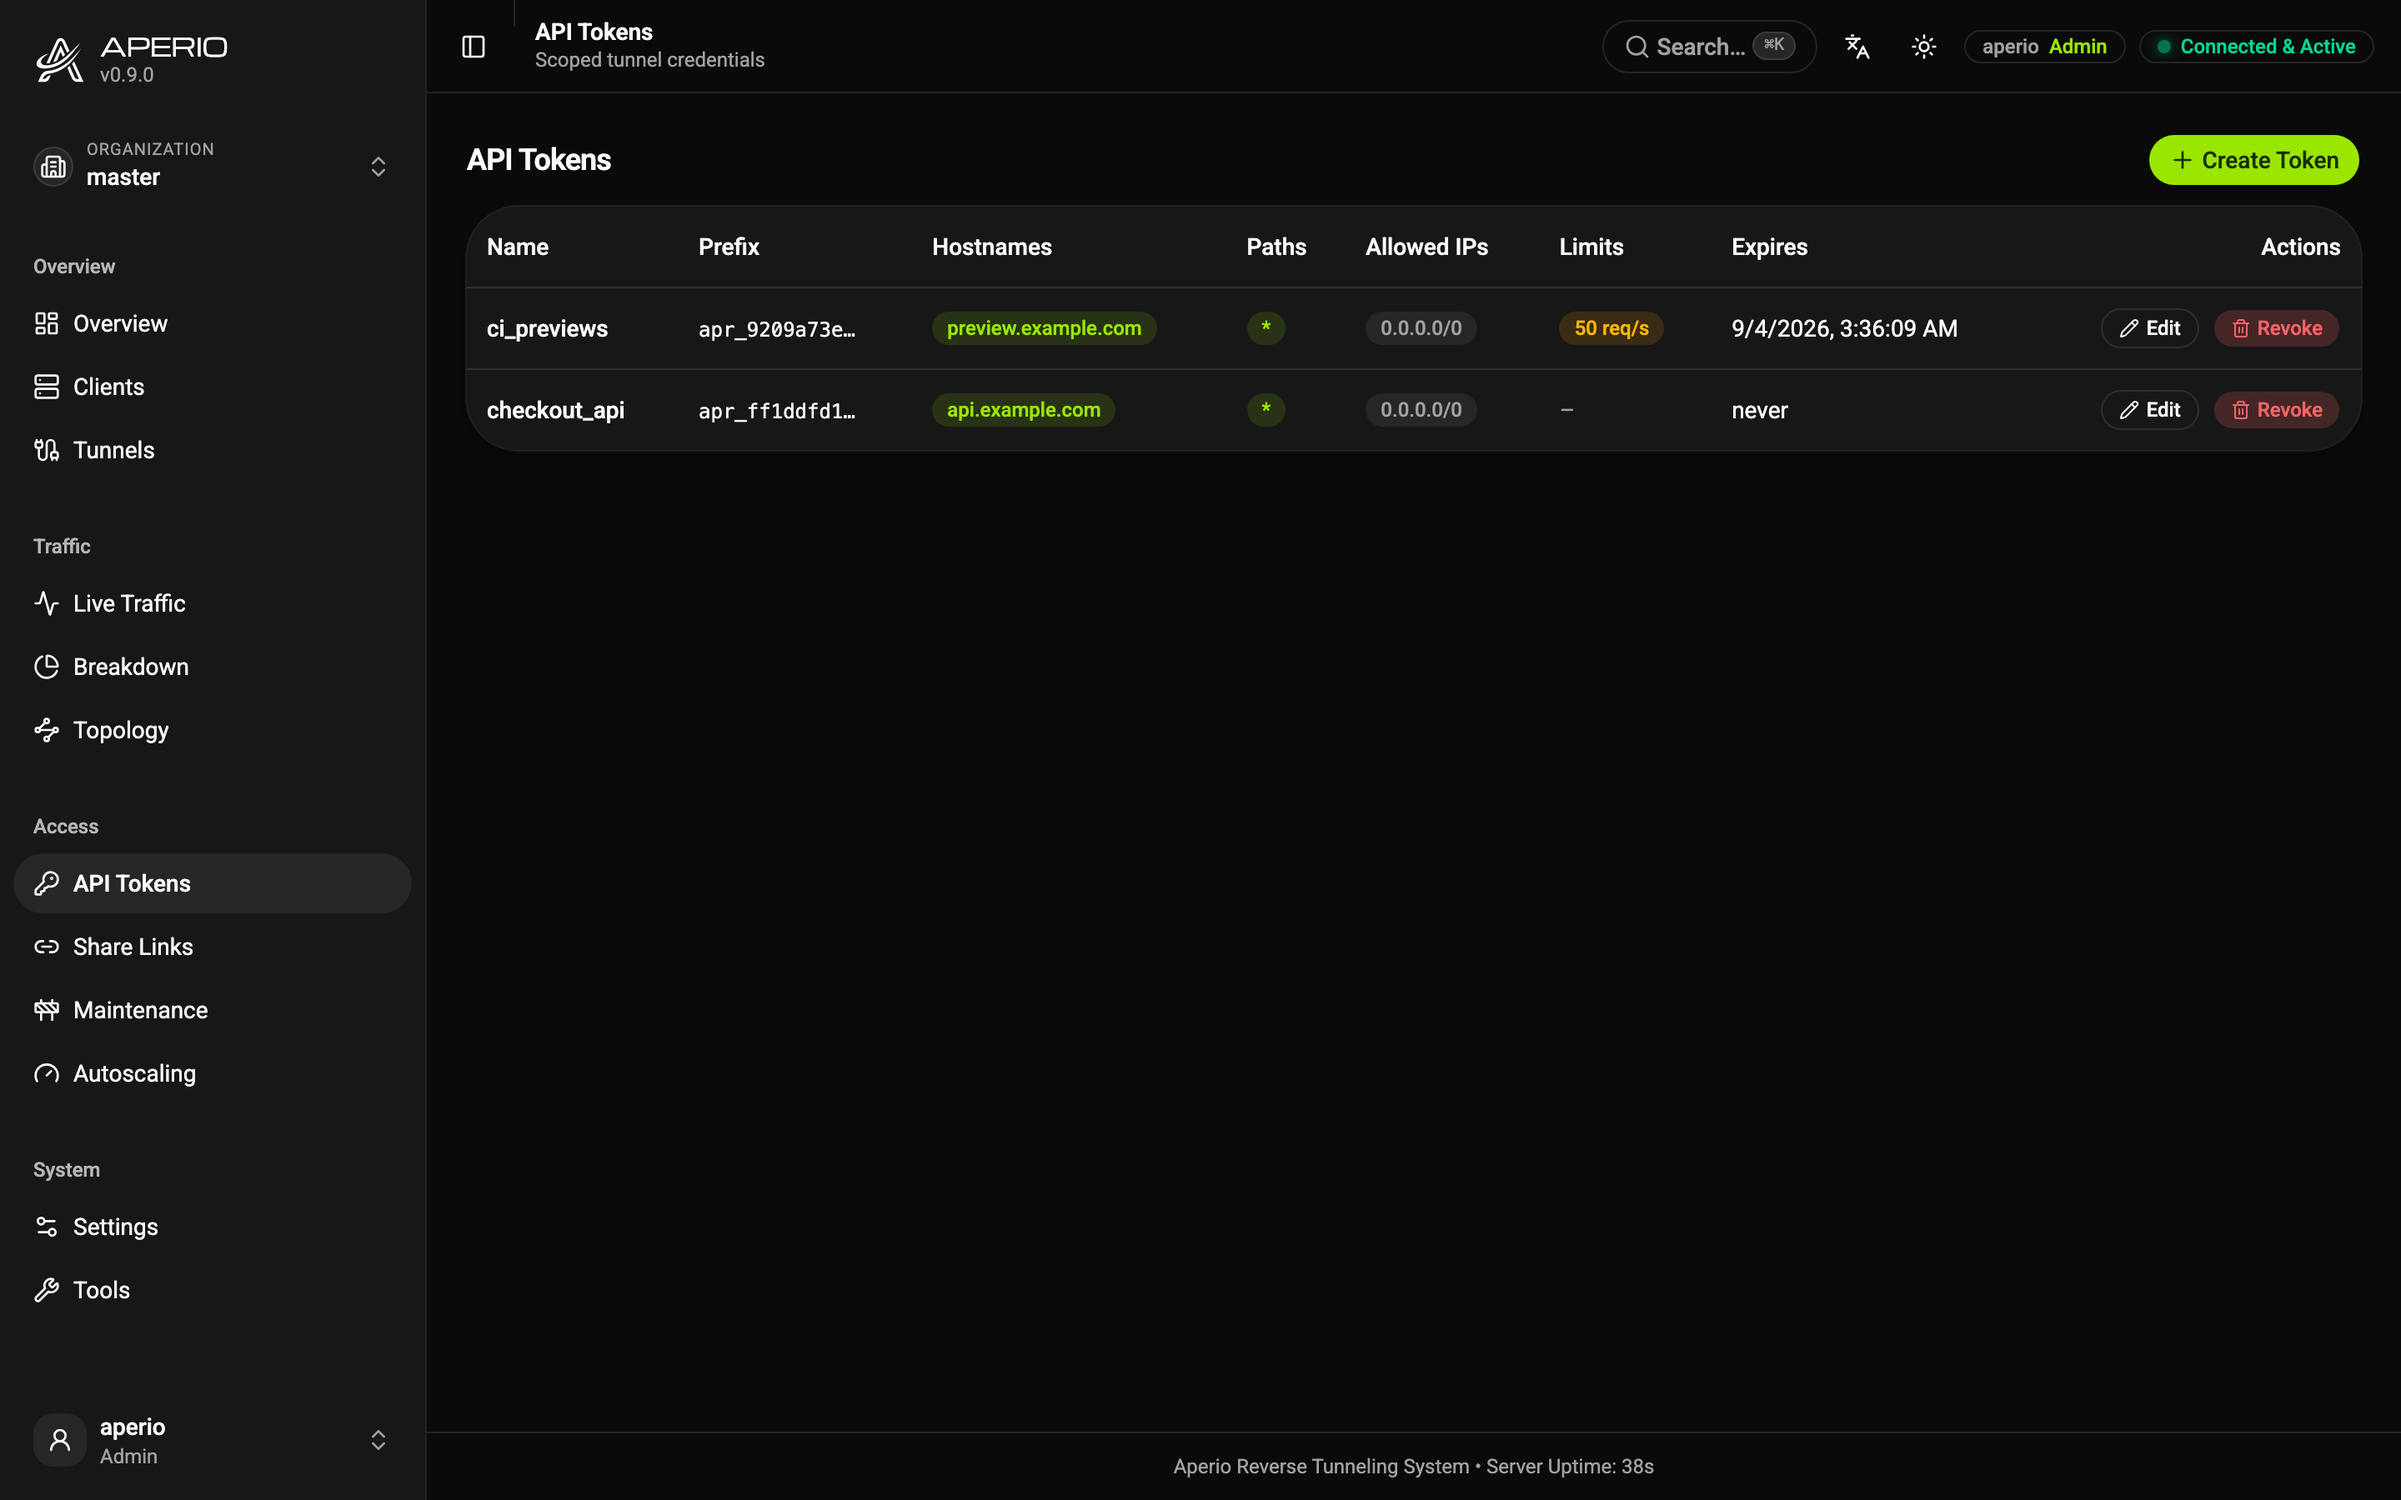
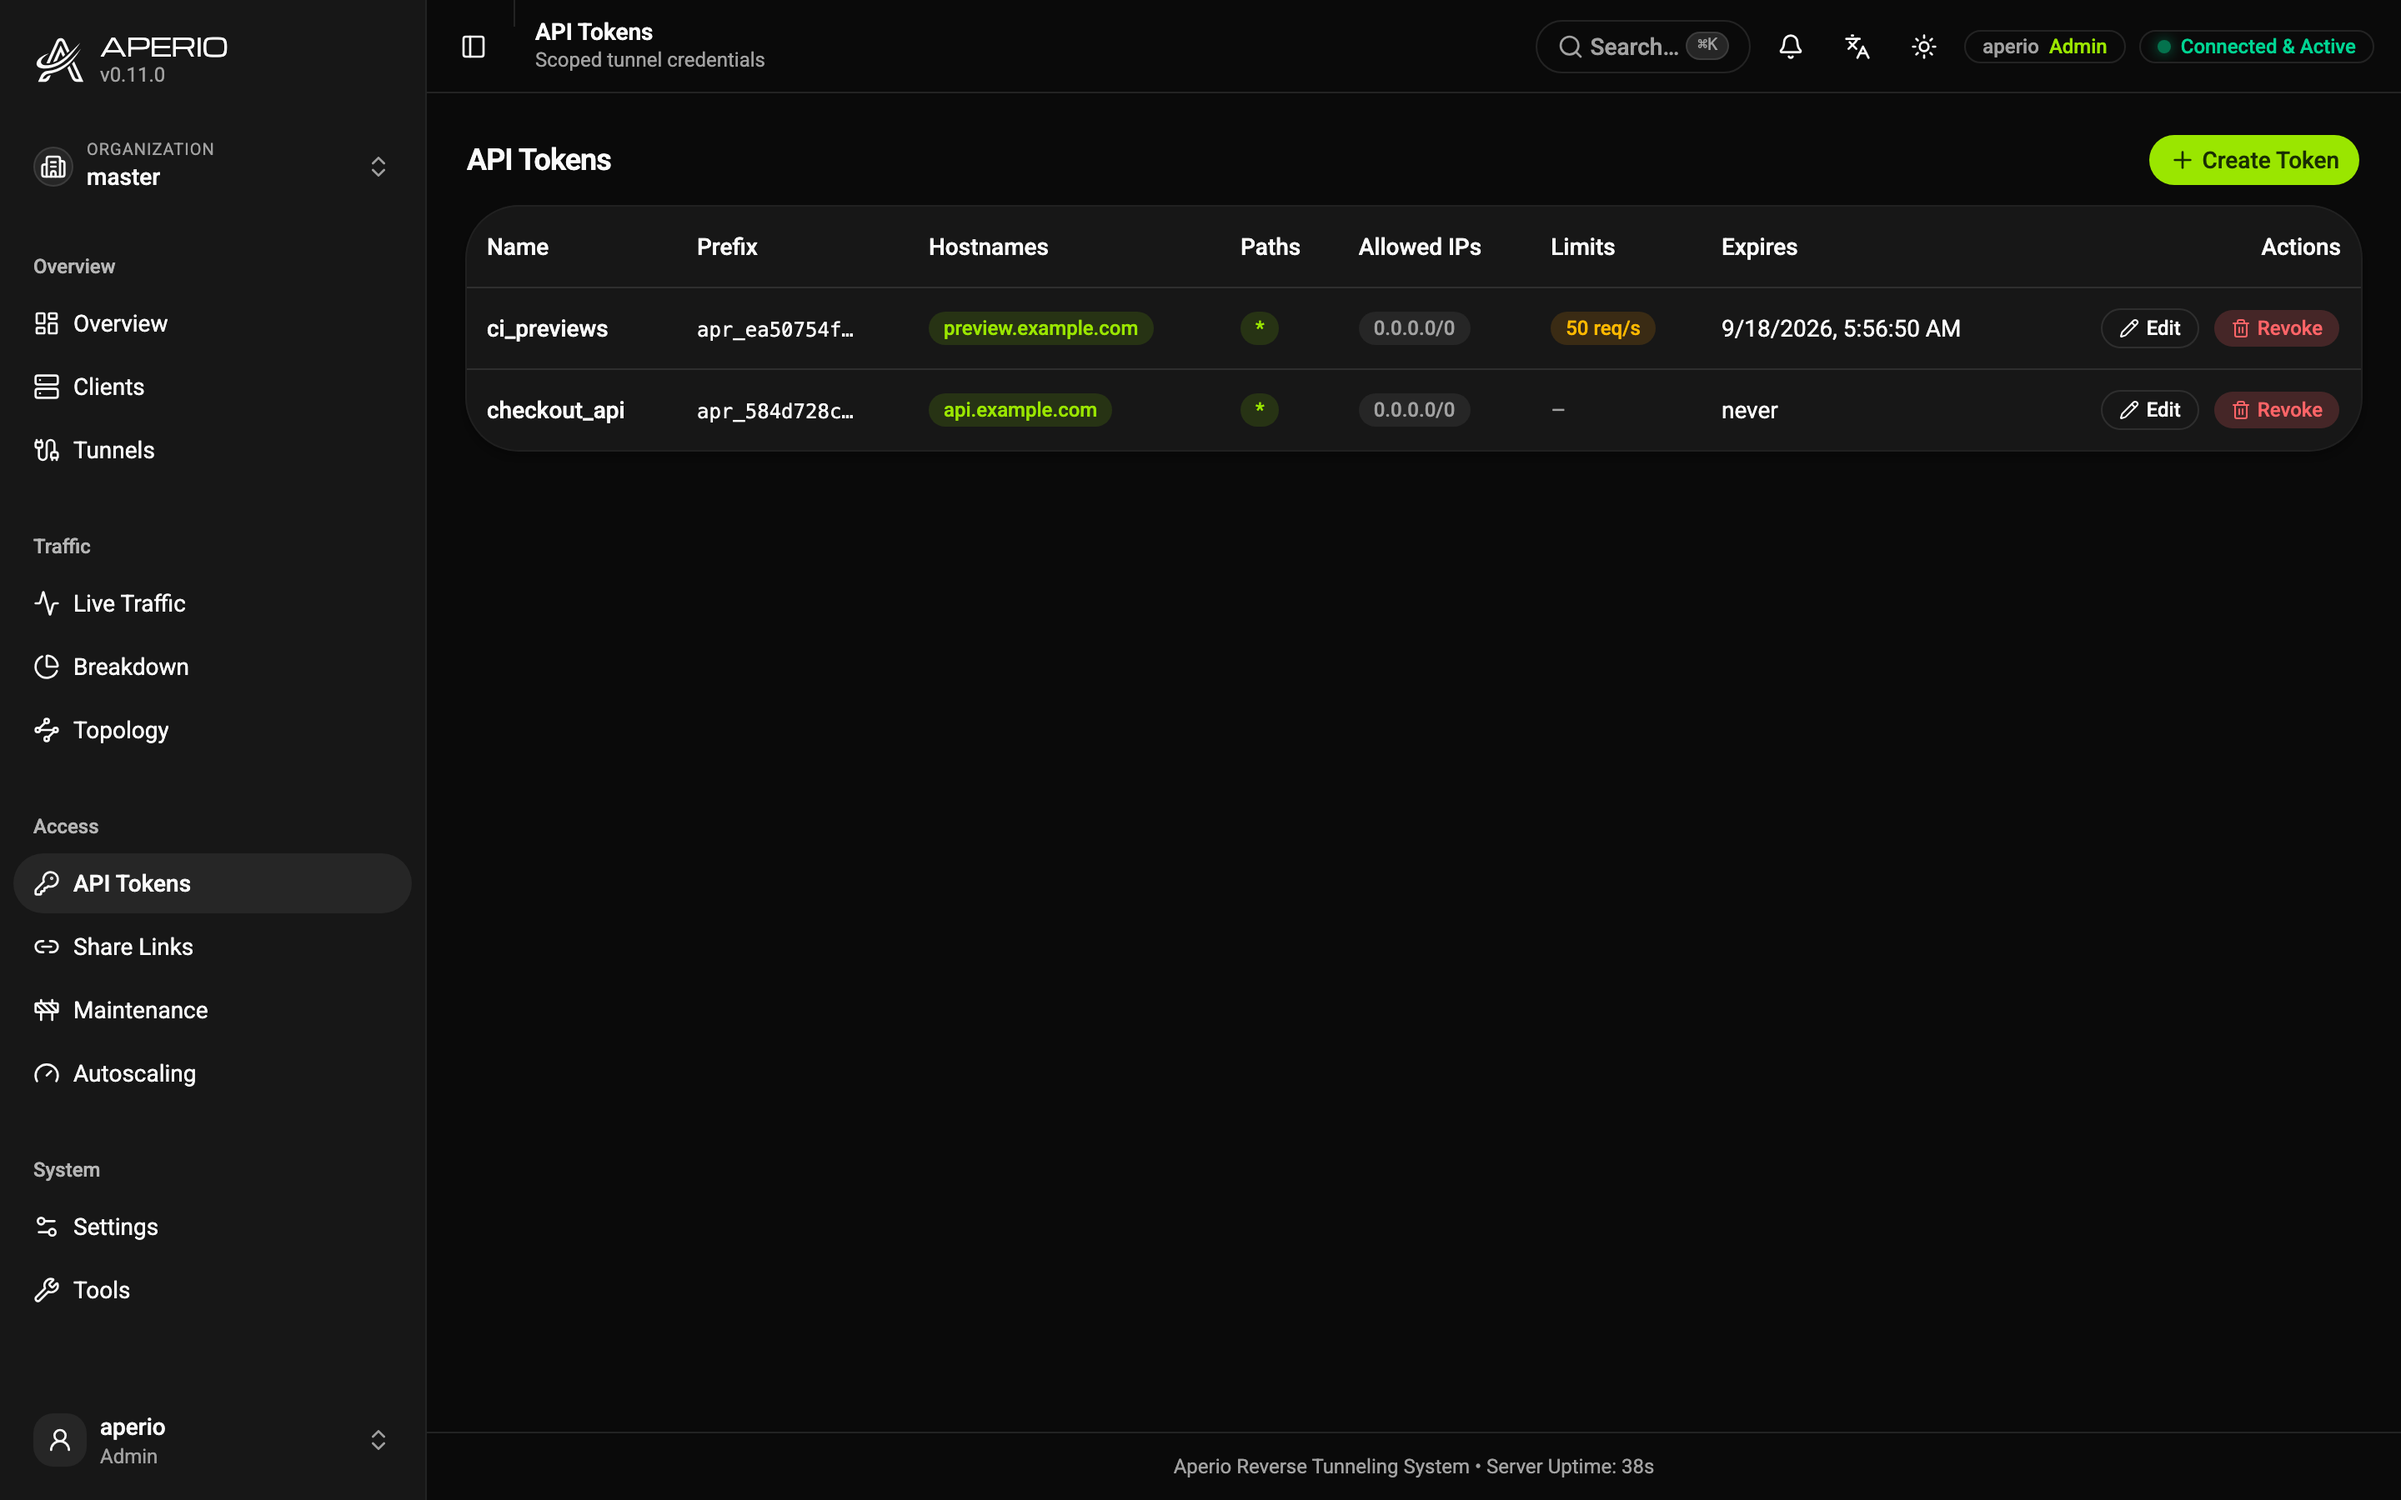
docs(claude): a release runs five things locally, and they are now a rule
Asked why the screenshots were not refreshed for 0.11.0, the honest answer is
that it was not written where the rules are. Rule 11 lists five files to edit
and says nothing about running anything; the screenshot step existed only as
guidance in docs/development.md. So rule 26 now says what a release *runs*
before the bump, in order, with the reason each one earned its place.

Writing the rule was not enough on its own, which is the part worth recording.
The capture script was broken too, by the same closed-by-default flip that
broke conformance and soak: its demo service declares a hostname and no gate,
so the traffic it drives to make the screens worth looking at never arrived,
and it failed with "the demo traffic did not reach the server being captured".
That is a fourth harness with one cause. Fixed the same way, and the fresh
capture is in this commit, twelve images including the clients table that now
has a name column.

Two suites move off CI, as asked, and both had a reason beyond being slow.

Mutation testing is hours across eight runners and is now workflow_dispatch
only. The workflow stays because a runner is still the right place for the
whole set when somebody wants it.

Autobahn is out of the conformance workflow entirely. Its pinned image tag,
0.8.2, is not published: the image moved to date-based tags, so the pull
failed with "manifest unknown", which is a CI failure about somebody else's
[…]

diff --git a/CLAUDE.md b/CLAUDE.md
@@ -28,6 +28,16 @@ These rules apply to all future work in this repository.
     - **Both sides is fine and usually right**, because they catch different mistakes: from Rust, "something was added here with no entry there"; from TypeScript, "there is an entry for something no longer sent". Neither is redundant. Having only the far one is.
     - **A generated file checked into the repo is the same trap.** If a script has to be re-run by hand after a change, assume it will not be; assert the file is current from the crate that invalidates it.
 
+26. **A release runs these locally first, and they are not optional.** Rule 11 says what to *edit* for a version bump. This is what to *run* before it, in this order, because each has been skipped once and cost something:
+
+    1. **`cargo test --workspace`, `cargo clippy --workspace --all-targets`, `cargo fmt --all --check`, and one `npm --prefix tests/e2e test`.** The ordinary gates, and rule 13 already asks for the full suite rather than a filtered one.
+    2. **`cargo audit`.** An advisory published the day before a release is still an advisory in the release. `RUSTSEC-2026-0258` was found by CI after 0.11.0 was cut, not before.
+    3. **Fresh screenshots: `npm run capture:docs` in `aperio-dashboard/`.** The images in `README.md`, the docs pages and the guide are captured from a live instance, and a release ships them. They go stale silently, which is the whole problem: an old screenshot looks exactly like a current one. This is also the check that the dashboard *works* end to end, which is how the closed-by-default flip was found to have broken the capture script.
+    4. **The mutation sweep, locally**, over the scoped set in `.cargo/mutants.toml` (`cargo mutants --in-place`, one job, and clean `target/` around it; see `docs/development.md` for why). It is hours, which is why it is not on CI's push path.
+    5. **Autobahn, locally** (`node tests/conformance/autobahn.mjs`), which needs Docker and is therefore not a CI job. h2spec still runs in CI and needs nothing.
+
+    **Report each one's result, including the boring ones.** A release note that says "tests pass" and nothing about screenshots is indistinguishable from one where the screenshots were never taken.
+
 ## Code structure
 24. **Rust files should stay under a thousand lines, test files excepted.** This is a guideline against code smell, not a hard limit: nothing fails because a file is 1050 lines. What it is really asking is that responsibilities be spread out, that a big single file be preferred as several small ones, and that the structure nest, a module beside its `mod/` directory beside that directory's own modules, so somebody opening the project can find where a thing is without reading. Follow Rust idiom while doing it: a `foo.rs` next to a `foo/`, `pub(crate) use` facades so a split is a pure move with no call-site churn, and names that say what the module is for rather than what it was cut out of.
 
@@ -76,7 +86,7 @@ These rules apply to all future work in this repository.
 9. **Always update `CHANGELOG.md` for any user-facing change**, as part of the same task and commit that makes the change (not a separate follow-up). Add an entry under a `## [Unreleased]` section, create that section at the top (above the latest released version) if it does not exist, following the existing Keep a Changelog style: group under `### Security` / `### Added` / `### Changed` / `### Fixed` / `### Removed`, and write a **bold lead-in sentence** followed by a short explanation, matching the voice of the entries already in the file.
 10. **What counts as user-facing:** behavior, config/flags/env vars, API/endpoints, security fixes, CLI, defaults, or anything an operator/user would notice. **Skip** purely internal changes: `planned_features.md` edits, CI/build-infra tweaks, test-only changes, and no-op refactors. If unsure whether a change is user-facing, add a changelog entry.
 11. **Releases:** on a version bump, move the `## [Unreleased]` block to a new `## [x.y.z] - YYYY-MM-DD` heading (today's date) and bump the version in all three crate `Cargo.toml` files (`aperio-client`, `aperio-server`, `aperio-config`), `Cargo.lock`, and the book's title page (`\author{Version x.y.z}` in `docs/book/aperio.tex`). The release workflow refuses to build the guide when the book's version disagrees with the tag.
-19. **Cutting a release includes a config audit over the whole cycle.** When asked to release a version, do everything in rule 11, and additionally verify `CONFIG_CHANGES` once against the entire range, `git diff <latest tag>..HEAD` over `aperio-config/src/lib.rs`, `aperio-client/src/config.rs`, `aperio-server/src/settings.rs` and `aperio-server/src/config_file.rs`, plus any new/changed `env::var` read. Rule 18 records these one change at a time, which is exactly the kind of thing that gets forgotten in the moment; a release is the last point where fixing it still costs nothing, so this is the second net, not a replacement for the first.
+19. **Cutting a release includes a config audit over the whole cycle** (and rule 26 lists what to run before any of it). When asked to release a version, do everything in rule 11, and additionally verify `CONFIG_CHANGES` once against the entire range, `git diff <latest tag>..HEAD` over `aperio-config/src/lib.rs`, `aperio-client/src/config.rs`, `aperio-server/src/settings.rs` and `aperio-server/src/config_file.rs`, plus any new/changed `env::var` read. Rule 18 records these one change at a time, which is exactly the kind of thing that gets forgotten in the moment; a release is the last point where fixing it still costs nothing, so this is the second net, not a replacement for the first.
     - For every config-surface change in the range, decide against rule 18's "what counts" test whether it can alter how an existing file behaves. If it can and no `CONFIG_CHANGES` entry covers it, add one now, with the version being released.
     - **Correct the version on entries added during the cycle.** They were written before the release number was known, so an entry naming a guessed or placeholder version silently never fires, or fires for the wrong upgrade, check every entry newer than the last tag and set it to the version actually being cut.
     - **Report the result explicitly, including when it is empty.** Say what range was audited and what was found ("14 commits, 3 touched the config surface, none can affect an existing file"). A silent pass is indistinguishable from a skipped check, and this audit only has value if the user can tell it actually ran.
